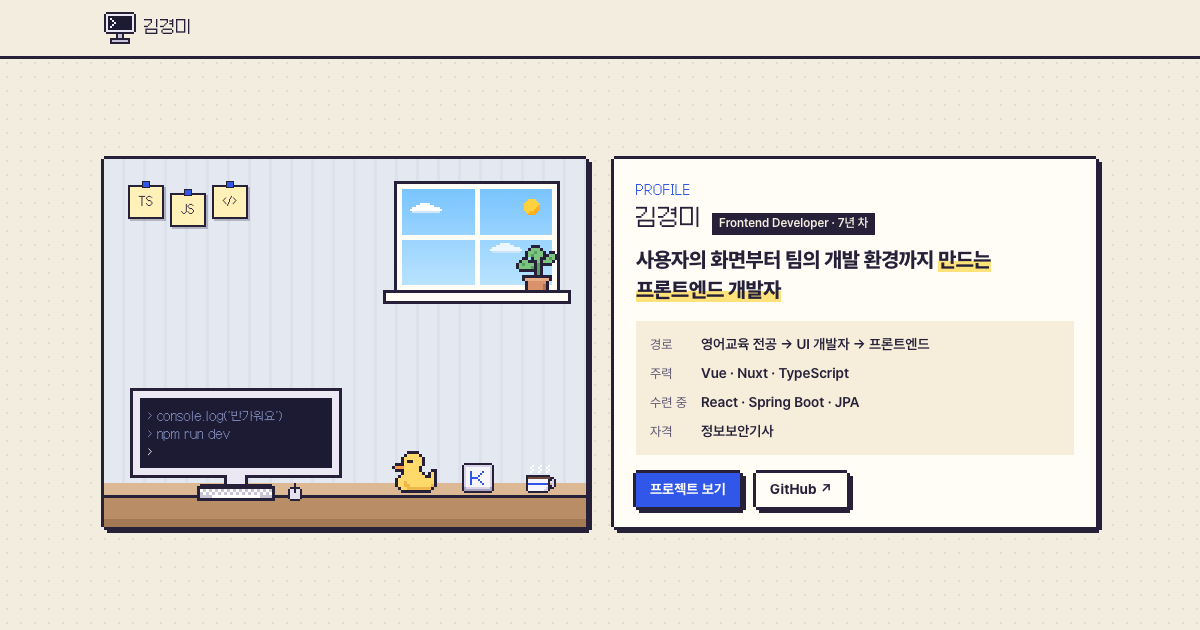
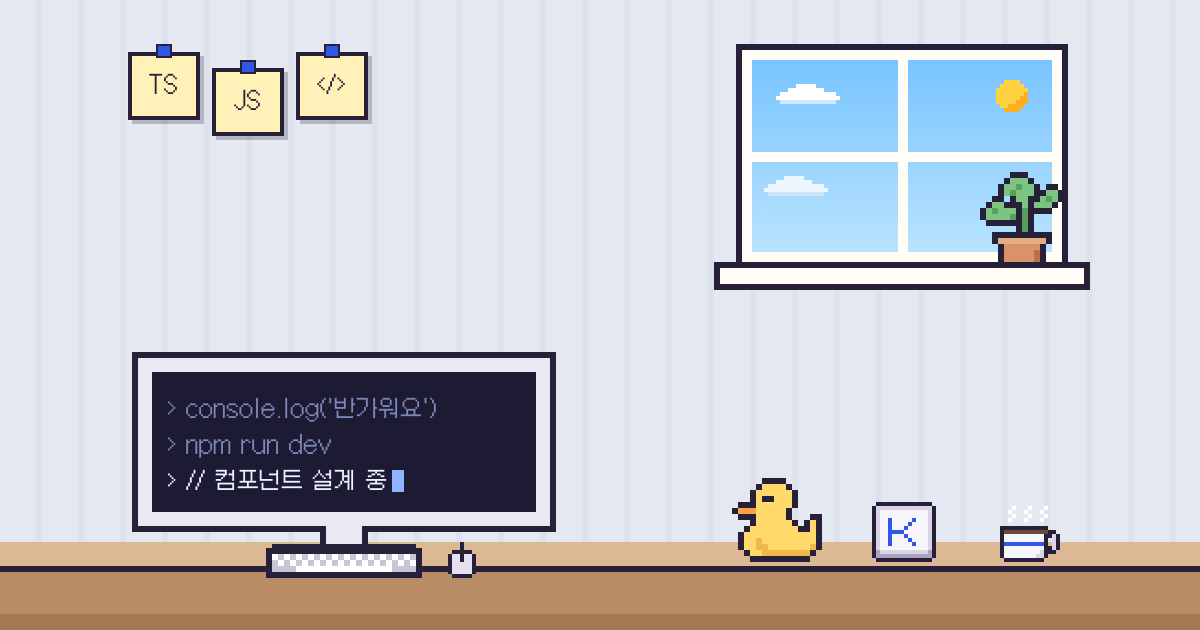
use desk scene only for link preview image

diff --git a/index.html b/index.html
@@ -17,7 +17,7 @@
     <meta property="og:image" content="%VITE_SITE_URL%og.png" />
     <meta property="og:image:width" content="1200" />
     <meta property="og:image:height" content="630" />
-    <meta property="og:image:alt" content="모니터와 러버덕이 있는 도트 책상과 프로필 소개" />
+    <meta property="og:image:alt" content="모니터와 러버덕이 있는 도트 책상" />
     <meta name="twitter:card" content="summary_large_image" />
     <meta name="twitter:title" content="김경미 포트폴리오" />
     <meta name="twitter:description" content="사용자의 화면부터 팀의 개발 환경까지 만드는 프론트엔드 개발자 김경미의 포트폴리오" />
